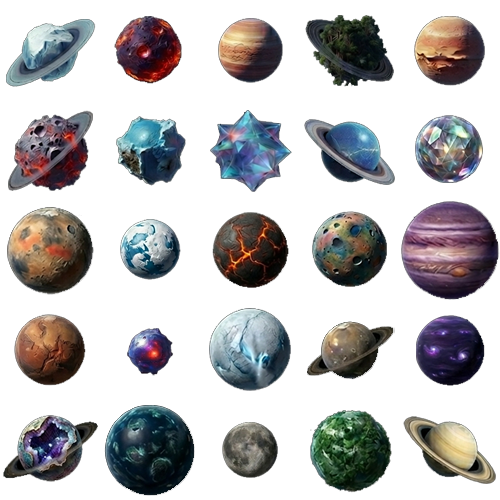
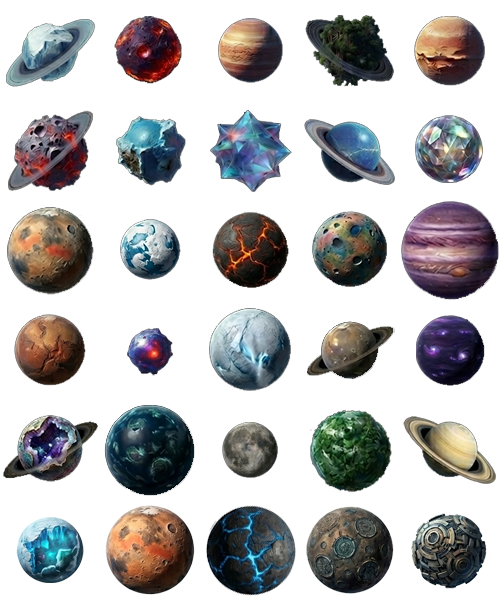
Add five planets. Enforce uniqueness of planet sprites.

diff --git a/app/models/campaign.rb b/app/models/campaign.rb
@@ -3,7 +3,7 @@
 class Campaign < ApplicationRecord
   DEFAULT_CARGO = "000-2-134711-182947-76123199-322521-8431364-L-M-Z".freeze
   START_HEX = { q: 2, r: 7 }.freeze
-  PLANET_COUNT = 25
+  PLANET_COUNT = 30
   PLANET_ICON_TYPES = %w[circle beacon_store].freeze
 
   belongs_to :user
@@ -99,9 +99,11 @@ class Campaign < ApplicationRecord
   end
 
   def assign_planet_sprites!
-    sprites = MapLoader.hexes
-      .select { |h| h["icon"].in?(PLANET_ICON_TYPES) }
-      .each_with_object({}) { |hex, hash| hash["#{hex['q']},#{hex['r']}"] = rand(PLANET_COUNT) }
+    planet_hexes = MapLoader.hexes.select { |h| h["icon"].in?(PLANET_ICON_TYPES) }
+    indices = (0...PLANET_COUNT).to_a.sample(planet_hexes.size)
+    sprites = planet_hexes.each_with_index.with_object({}) do |(hex, i), hash|
+      hash["#{hex['q']},#{hex['r']}"] = indices[i]
+    end
     update!(planet_sprites: sprites)
   end
 

diff --git a/TODO.md b/TODO.md
@@ -1,0 +1,137 @@
+# Deep Space D6 — TODO
+
+Items are grouped by game system. Checked items are already implemented.
+
+## Priority Order
+
+1. Event action wiring (`goto`, `game_over`, scrap/fuel side-effects on choices)
+2. Open Space encounters (real d6 roll + sector chart)
+3. Resources & lose conditions (fuel depletion → game over)
+4. Conditional choice enforcement (officer skills, items, cargo sequences)
+5. Items & cargo sequence (tracking, UI, persistence)
+6. Officer panel (visibility during play + permanent state changes)
+7. Store UI (multi-action hub events 20-A/B/C)
+8. In-event dice rolls (mid-event branching on roll results)
+9. Research & Development (upgrade tracks + effects)
+10. Combat system (core mechanics)
+11. Special combat variants (Dreadship, The Shadow, Endless, etc.)
+12. Starmap extras (jump points, Jump Drive, engine repair movement bonus)
+13. Win/loss screens (end-game presentation)
+14. Expansion content flag (Endless Expansion gating)
+15. Quality of life (journal notes, undo)
+
+---
+
+## Character Creation
+- [x] Captain name, ship name, ship type selection (4 ships)
+- [x] 4 officers with name, title, specialty, attribute A, attribute B
+- [x] Officer randomize button
+- [x] Lock character on campaign start
+- [ ] Display character sheet (officers + attributes) somewhere accessible during play — the sidebar currently only shows ship name/captain, not officer details or their specialties
+
+## Starmap & Navigation
+- [x] SVG hex map rendered (flat-top, axial coordinates)
+- [x] Ship token moves to adjacent hex, costs 1 fuel
+- [x] Sector discovery: d12 rolled the correct number of times per sector, trigger hexes activated
+- [x] Hex icon types: home, start, circle (planet), square (store), beacon_store, jump
+- [x] Planet sprites from spritesheet, deterministic per hex
+- [ ] **Jump points**: jump hex type exists on the map but the mechanic is not implemented — clicking a jump point should offer travel to another point on the map (see jump point events in events.yml)
+- [ ] **Engine Repair upgrade effect**: when unlocked, allow moving 2 spaces per turn instead of 1
+- [ ] **Jump Drive** (requires Engine Repair upgrade): activated by rolling crew dice and assigning 3 Engineering results, costs 1 fuel. Has two use contexts once unlocked:
+  - *Map navigation*: return to previous hex. Needs a HUD button, and campaign must track the last position.
+  - *Combat escape*: flee a combat encounter as a station action. Does NOT trigger an Open Space encounter on return.
+
+## Open Space
+- [x] Blank/unactivated hexes are recognized as Open Space
+- [ ] **Roll d6 and consult sector-specific encounter chart** (currently just shows placeholder text; the actual chart from PDF page 8 needs to be implemented):
+  - Alpha: 1–4 Empty, 5–6 Combat 2+5
+  - Beta: 1–3 Empty, 4 Combat 2+4, 5 Combat 3+2, 6 Combat 3+5
+  - Delta: 1–2 Empty, 3 Combat 2+6 +3 scrap, 4 Combat 4+5 +3 scrap, 5 Combat 2+6 +4 scrap, 6 Combat 4+5 +5 scrap
+  - Zeta: 1 Gain 2 scrap, 2 Combat 3+0, 3 Combat 2+5, 4 Combat 2+5, 5 Combat 3+6, 6 Combat 4+7
+  - Tau: No encounters
+- [ ] **Long Range Scanners upgrade effect**: during Open Space roll, reduce the d6 result by 2 (min 1)
+
+## Events & Choices
+- [x] 170 events loaded from `config/events.yml`, QA'd against PDF
+- [x] Event modal: title, body, choice buttons
+- [x] `orbit` action: close modal, return to map
+- [x] `complete` action: mark campaign won
+- [x] Conditional choice labels present (e.g. `[Requires: HACKER]`)
+- [ ] **`goto` action**: follow the chain to the next event, append each step to the event log (grouped/indented). See `memory/event_chain_ux.md`. This is the most commonly used action type.
+- [ ] **`game_over` action**: wire in controller — currently unhandled. Should end campaign as a loss and show a loss screen.
+- [ ] **Conditional choice enforcement — officer attributes/specialties**: `[Requires: HACKER]`, `[Requires: SMUGGLER, PSYCHIC, or CHARMING]` etc. are shown to all players but should be greyed out or hidden unless a matching officer exists on the campaign.
+- [ ] **Conditional choice enforcement — items**: choices like `[Requires: AI-System]`, `[Requires: Flower Locket]`, `[Requires: Q-BOMB]`, `[Requires: SYS-PUMP]` require a named item in the cargo. Items must be tracked and checked.
+- [ ] **Conditional choice enforcement — cargo sequences**: choices like `[Requires: Sequence L + Sequence 711]`, `[Requires: Sequence Z underlined]`, `[Circled sequence 000]` branch based on which substrings in the cargo string are underlined or circled. The enforcement layer must check the cargo state.
+- [ ] **Story flags**: some events grant named flags (e.g., discovering the Cloaking Device, gaining RESTLESS). These need to be tracked in campaign state and checked during conditional choices.
+- [ ] **Items**: events award bracketed items (e.g., `[Lux Food]`, `[AI-System]`, `[EE7]`, `[PandoraBox]`). Items need to be written into cargo, checked for conditionals, and crossed out when lost (e.g., event 69-A loses `[PandoraBox]`).
+- [ ] **Cargo sequence manipulation**: some event choices instruct the player to underline or circle specific substrings in the cargo string (e.g., "underline sequence 99", "circle sequence 000"). Needs interactive UI — tap a token to toggle underline/circle state — and the state must persist in campaign.
+- [ ] **Scrap side-effects on choices**: many `orbit` and `goto` choices say "gain X scrap" or "spend X scrap" in their label (e.g., event 26-A: "Gain 100 scrap", event 28-D: "gain 5 scrap", event 43-D: "Purchase board games for 2 scrap"). The controller currently does not apply these changes. Needs a `scrap_delta` metadata field (or label parsing) wired to `campaign.scrap`.
+- [ ] **Fuel side-effects on choices**: choices in events 27-A, 35-B, 45-A, 47-A, 52-A say "Spend 1 fuel" and event 73-A gives 2 free fuel. The controller must decrement/increment `campaign.fuel` when these choices are selected.
+- [ ] **Multi-action store UI**: events 20-A, 20-B, and 20-C are hub stores where the player can perform *any number* of independent actions in one visit (purchase items, buy fuel for scrap, research with crew dice). The current single-choice modal doesn't support this — needs a checklist/multi-step UI for these events.
+- [ ] **Fuel depot — buy fuel for scrap**: 20-A sells 1 fuel per 4 scrap (limit 5); 20-B sells 1 fuel per 6 scrap (no limit); 20-C sells 1 fuel per 5 scrap (limit 5).
+- [ ] **Store — buy items for scrap**: event 20-A sells `[SYS-PUMP]` for 5 scrap. Purchasing must add the item to cargo and deduct scrap.
+- [ ] **Expansion content flag**: some events are marked for the Endless Expansion only. These events should be skippable (or flagged as unavailable) for players without the expansion. Needs a campaign setting and filtering in EventCatalog.
+- [ ] **Dice roll mechanics within events**: several events require rolling dice mid-event and branching on the result. These cannot be handled by simple choice buttons — they need an in-modal dice roll step:
+  - Event 22-A: Roll threat die → asteroid outcome (1=no damage, 2=lose 5 scrap, 3=lose 1 fuel, 4–6=varying damage)
+  - Event 27-B: Roll 3 crew dice (player hand) vs 2 hidden dice (opponent) for card game
+  - Event 31-A: Roll threat die +2 → place in RE-ROLLS box; then roll 6 crew dice
+  - Events 39-B, 42-A, 51-B, 61-B, 70-A, 72-A: Roll 2 crew dice per officer — any skull places an X on that officer
+  - Event 47-A: Roll threat die to pick mining section, then roll crew dice (modified by attributes) for scrap yield
+  - Event 52-B: Roll 3 crew dice vs defense system
+  - Event 62-A: Multi-stage trap challenge using crew dice
+
+## Resources & HUD
+- [x] Fuel tracked, decremented on move, shown in HUD
+- [x] Scrap tracked, shown in HUD
+- [x] Cargo sequence displayed in HUD (read-only)
+- [x] Activity journal (movement, events, milestones) shown in sidebar
+- [ ] **Fuel depletion = game over**: when fuel hits 0 and player tries to move, trigger event 21-A ("Out of Fuel") instead of silently blocking movement
+- [ ] **Scrap gain/loss from events**: events that award or cost scrap (e.g. open space combat in Delta/Zeta sectors) need to update `campaign.scrap` and reflect in HUD
+- [ ] **Cargo sequence interactions**: see Events section above (circling/underlining characters)
+
+## Officer State
+Officers can be permanently modified by events — this needs to be tracked in the DB and reflected in the UI.
+- [ ] **Infirmary tracking**: crew dice can be sent to the infirmary during combat and some events (e.g., event 52-D places two crew in the infirmary before combat begins). Track which officers are in the infirmary per campaign.
+- [ ] **Officer attribute additions**: events can permanently add attributes to officers (event 30-B adds RESTLESS to a random officer; event 51-D adds LUCKY to all officers). Needs a mutable attributes list per officer, separate from the initial locked attributes.
+- [ ] **Officer death / removal**: events can permanently kill or remove an officer (event 41-D: cross out an officer; event 21-B: if GLADIATOR officer fails a challenge, cross out the entire officer). Need a `dead` or `removed` flag per officer and to exclude them from conditionals and dice rolls.
+- [ ] **Officer title change**: event 21-B temporarily changes an officer's title to GLADIATOR. Needs a mutable title field (or override) tracked per officer.
+- [ ] **Skill exchange at tavern**: event 51-A allows swapping an officer's specialty with another. Needs a UI step and must update the officer record.
+
+## Combat
+The app currently has no combat system. Combat is triggered by Open Space encounters and many events.
+- [ ] **Combat UI**: display the active threat cards in the scanner positions (Deep Space D6 board layout)
+- [ ] **Draw deck**: randomly draw the specified number of cards from the main threat deck to form the combat draw deck
+- [ ] **Threat card resolution**: step through the standard Deep Space D6 rules (draw → place → resolve)
+- [ ] **Hull & shield tracking during combat**: show current hull and shield values, update as damage is taken
+- [ ] **Crew dice assignment**: let player assign crew dice to ship stations and R&D tracks during step 3
+- [ ] **No cards remaining rule**: if draw deck is empty, take 1 hull damage (shields first) until all external threats resolved
+- [ ] **End of combat**: fully repair ship (hull + shields), return threat cards to deck, shuffle
+- [ ] **Combat game over**: if ship destroyed, end campaign as a loss (unless event says otherwise)
+- [ ] **Special combat — event 15-A / 44-E (Endless)**: uses Endless Expansion cards from page 74; only available with expansion. 10 threats, draw deck of 0.
+- [ ] **Special combat — event 67-A (Dreadship)**: scanner dice are placed on the Dreadship board, not the player's ship. Requires a different combat layout.
+- [ ] **Special combat — event 57-A (The Shadow)**: 1-on-1 duel with special rules; if you lose, game over; if you win, he lets you go.
+- [ ] **Special combat — event 58-C**: April gives a special weapon that modifies combat for this encounter.
+- [ ] **Kinetic Recycler upgrade effect**: if 4+ hull lost in one round, gain 1 scrap
+- [ ] **Promotion upgrade effect**: re-roll all available crew before step 3 (track uses)
+- [ ] **Cloaking Device upgrade effect**: re-roll the threat die during step 5 (track uses; only available after discovered in an event)
+- [ ] **Bio-Manipulator upgrade effect**: return a crew die from infirmary / prevent sending crew to infirmary (track uses)
+
+## Research & Development
+- [x] `researched_upgrades` column exists on campaigns table
+- [ ] **R&D UI on character sheet / sidebar**: show all 6 upgrade tracks with their progress boxes
+- [ ] **Research during combat**: assign crew dice to R&D tracks (crew must match the next required icon on the track)
+- [ ] **Research at store locations**: roll all 6 crew dice and assign to tracks for the listed scrap cost
+- [ ] **Unlock upgrades**: when all boxes on a track are filled, mark the upgrade as permanently unlocked and activate its effect
+- [ ] **Track uses**: Promotion (6 uses), LR Scanners (4 uses), Bio-Manipulator (5 uses), Cloaking Device (6 uses)
+- [ ] **Engine Repair cost**: costs 10 scrap to complete
+
+## Win / Loss Conditions
+- [x] `complete` action sets campaign status to `:completed`
+- [ ] **Victory screen**: after reaching the Home hex and resolving the final event, show a proper end-game summary
+- [ ] **Loss screen**: show when fuel runs out (21-A), ship is destroyed in combat, or a `game_over` event fires
+- [ ] **Completed campaigns gallery**: show finished campaigns with outcome and summary on the campaign list page
+
+## Quality of Life
+- [ ] **Officer details visible during play**: a way to view officer names, titles, and specialties from the main map screen (needed to know which conditional choices apply)
+- [ ] **Freeform journal notes**: let the player write their own narrative notes attached to the current campaign
+- [ ] **Undo last action**: roll back the most recent game state change

diff --git a/CLAUDE.md b/CLAUDE.md
@@ -88,6 +88,9 @@ This is a **solo-only** experience.
 - The Read tool's PDF support does not resolve correctly in this environment.
 - Use `pdftotext -f <start> -l <end> "path/to/file.pdf" -` via Bash for all PDF extraction work.
 
+## TODO List
+- `TODO.md` in the project root tracks all pending and future work items. Add new items there when they come up during a session.
+
 ## Future Extensions (documented for later)
 - Full Research & Development tracking
 - Journal system
